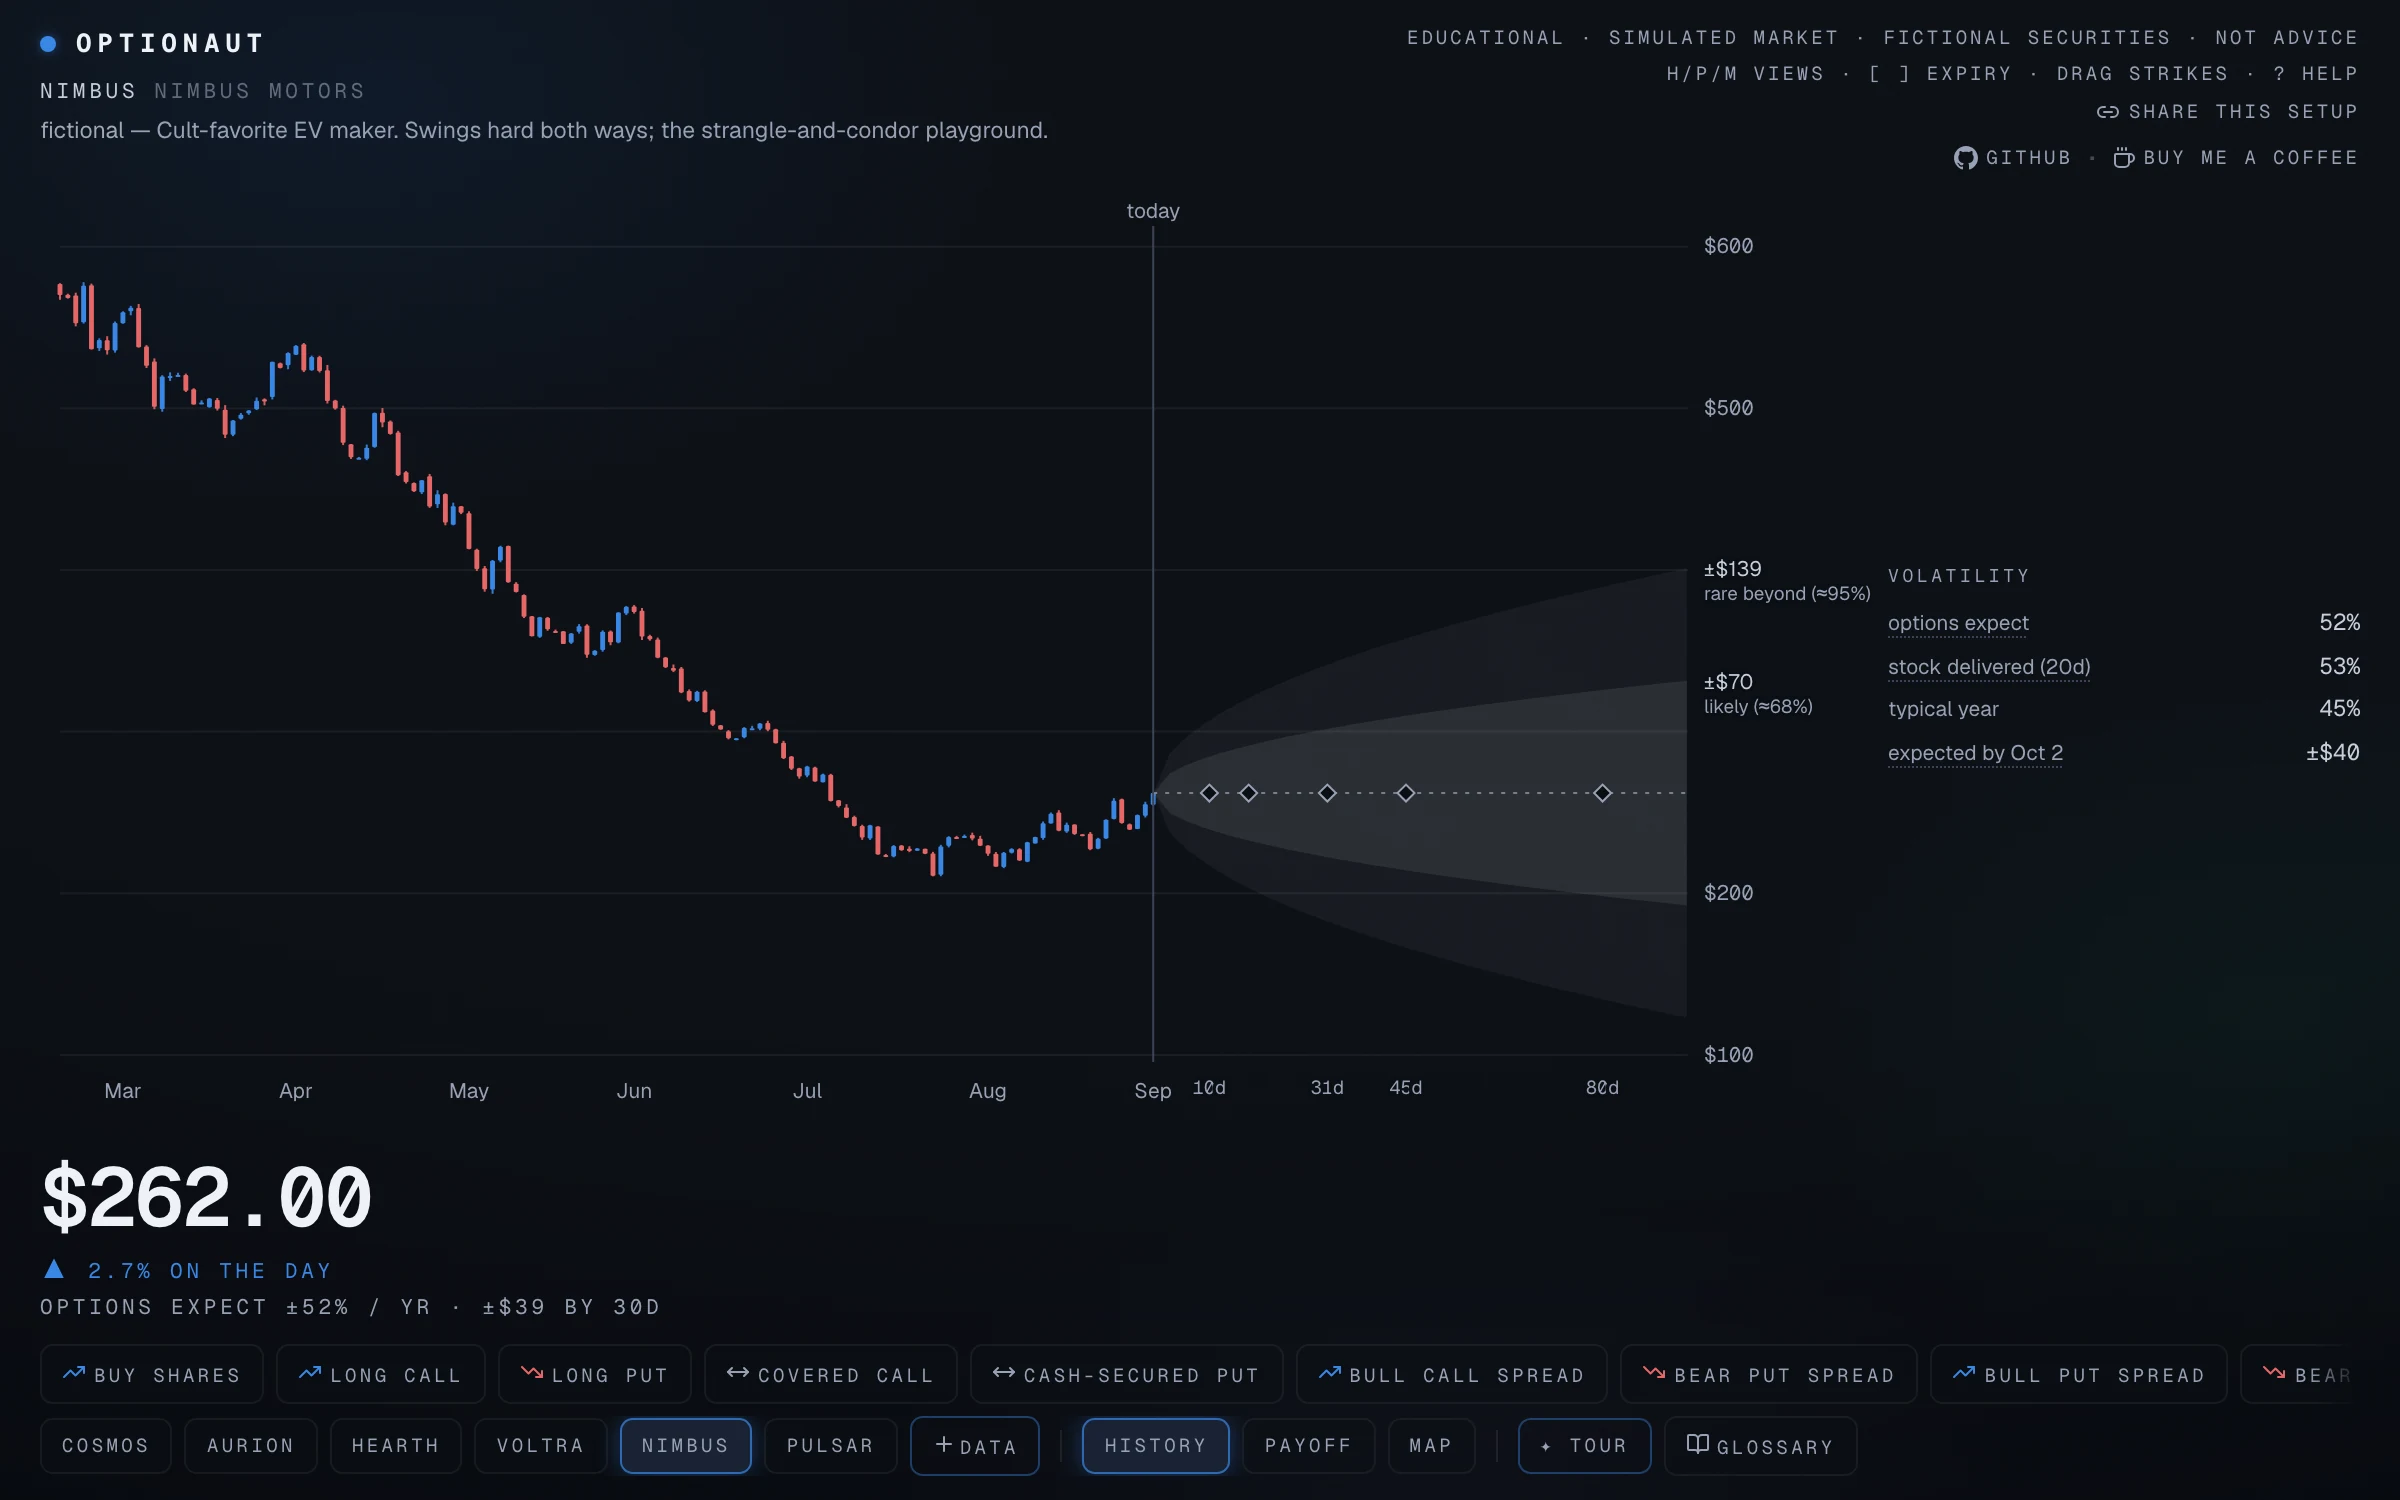
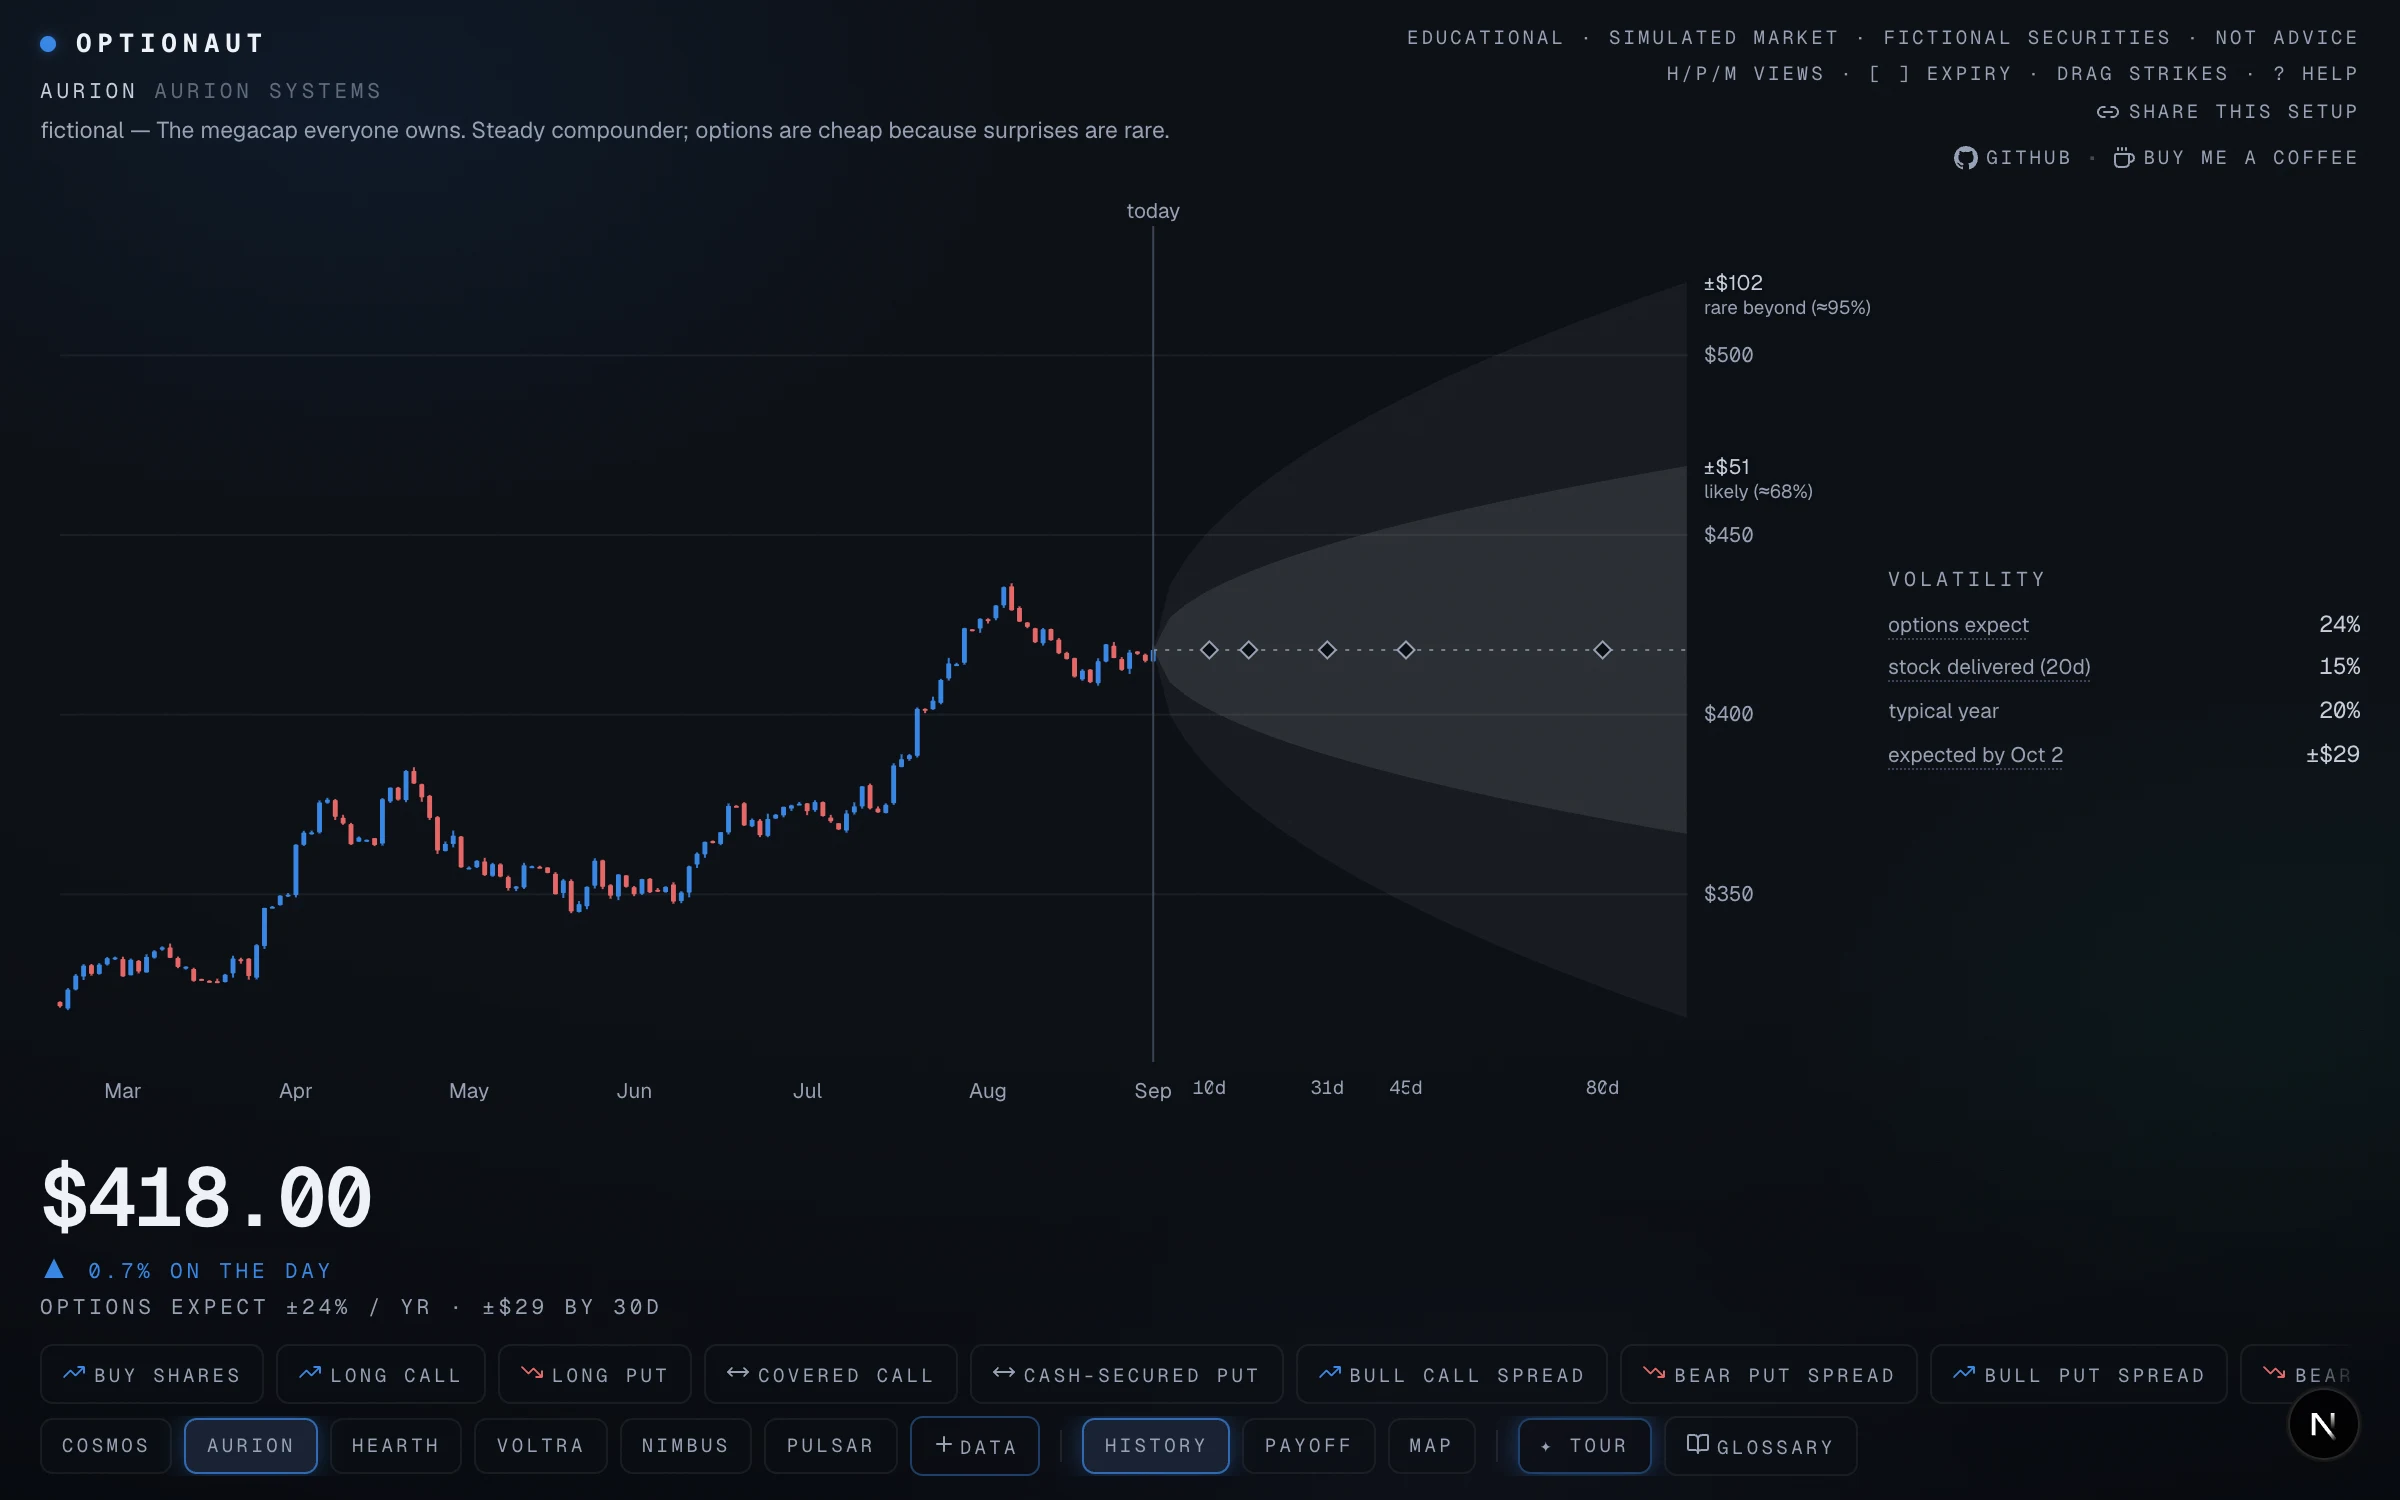
An eighth tour for the missing units, fresh README shots, and a tablet check
- "Building blocks" (tour 6 of 8, between the greeks and the seatbelt talk)
  covers PLAN §4.1 units 7–9: covered call as income, a debit vertical
  with a strike-drag gate and a width-versus-ticket reveal, the credit
  vertical as its mirror, a strangle with a breakeven reveal, the iron
  condor assembled from the strangle plus wings, and a time gate that shows
  the melt being collected. The greeks tour's condor step is now an honest
  preview of it. New glossary entry: strangle.
- scripts/shots.mjs replaces shot-tours.mjs and regenerates all three README
  screenshots from a headless Chrome (payoff, history, tours); the first-run
  flags are pre-set so the offer never photobombs. All three shots refreshed.
- README and CONTRIBUTING: eight tours, the shots script, ~25 minutes.
- Checked at iPad-landscape size (1024×768): no document scroll, the stage
  keeps ~380px with the lane in place; only the right panel scrolls.

diff --git a/src/components/cockpit/tour/tours.tsx b/src/components/cockpit/tour/tours.tsx
@@ -4,7 +4,7 @@ import { useCockpit } from "@/lib/cockpit/store";
 import type { Snapshot, Expiration } from "@/lib/data/types";
 import type { LabLeg } from "@/lib/options/strategies";
 import type { MarketCtx, OptionKind } from "@/lib/options/types";
-import { markToMarket, netEntryCost, payoffAtExpiry } from "@/lib/options/position";
+import { markToMarket, netEntryCost, payoffAtExpiry, breakevens } from "@/lib/options/position";
 import { fmtUsd, fmtSignedUsd, fmtSignedPctOf } from "@/lib/format";
 import type { Scene, TourTarget } from "./scene";
 
@@ -382,12 +382,146 @@ export const TOURS: Tour[] = [
         target: "greeks",
         caption: (
           <>
-            Graduation: an <Term id="iron-condor">iron condor</Term>{" "}— four{" "}
+            A preview of graduation: an <Term id="iron-condor">iron condor</Term>{" "}— four{" "}
             <Term id="leg">legs</Term>{" "}selling the middle, buying the <Term id="wing">wings</Term>.
             Look at the greeks: delta near zero (no direction), theta positive (time pays you),
-            vega negative (drama hurts). You can now read any strategy on the rail this way. Fly.
+            vega negative (drama hurts). You can now read any strategy on the rail this way; the
+            next tour assembles this one from pieces you already own.
           </>
         ),
+      },
+    ],
+  },
+  {
+    id: "building-blocks",
+    title: "Building blocks",
+    tagline: "Income, spreads, and the condor assembled from pieces.",
+    minutes: 3,
+    steps: [
+      {
+        scene: { strategy: "covered-call", view: "payoff" },
+        target: "readout",
+        caption: (
+          <>
+            Every strategy on the rail is assembled from pieces you already know. Start with
+            income: own 100 shares and sell a call against them — a{" "}
+            <Term id="covered">covered call</Term>. The premium is yours today (the readout
+            says you were paid); the price of that income is a ceiling on the upside, the flat
+            shelf on the right. Same downside as plain shares, plus a paid-for cap.
+          </>
+        ),
+      },
+      {
+        scene: { strategy: "bull-call-spread", view: "payoff" },
+        target: "strikes",
+        gate: {
+          check: (s) => Object.keys(s.overrides).length > 0,
+          hint: "drag the sold call's pill (−C) to the right",
+        },
+        caption: (
+          <>
+            Now a <Term id="spread">spread</Term>: buy one call and sell another at a higher
+            strike. The sold <Term id="leg">leg</Term>{" "}pays down the bought one, so the ticket
+            is cheaper — and in exchange the upside stops at the second strike. Capped both
+            ways. Drag the sold call&apos;s pill to the right and watch the cost and the cap grow
+            together.
+          </>
+        ),
+        reveal: (s, c) => {
+          const ks = c.legs.map((l) => l.strike).filter((k) => k > 0);
+          if (ks.length < 2) return null;
+          const width = (Math.max(...ks) - Math.min(...ks)) * 100;
+          const cost = netEntryCost(c.legs);
+          const most = width - cost;
+          return (
+            <>
+              Width {usd(width)}, ticket {usd(cost)}: the most you can make is {usd(most)}, about{" "}
+              {(Math.max(most, 0) / Math.max(cost, 1)).toFixed(1)}× what you risk.
+            </>
+          );
+        },
+      },
+      {
+        scene: { strategy: "bull-put-spread", view: "payoff" },
+        target: "readout",
+        caption: (
+          <>
+            Flip the spread: sell the higher put and buy a lower one as protection. Now you are{" "}
+            <em>paid</em>{" "}up front — a <Term id="credit-debit">credit</Term>{" "}— you keep it if
+            the stock stays above the sold strike, and the bought put caps what a crash can
+            take. The same shape as the last one, mirrored: pay now for a capped win, or get
+            paid now and post the width as collateral. Two currencies, one bet.
+          </>
+        ),
+      },
+      {
+        scene: { strategy: "long-strangle", view: "payoff" },
+        target: "price",
+        gate: {
+          check: (s, c) => Math.abs((s.whatIfPrice ?? c.spot) - c.spot) / c.spot >= 0.099,
+          hint: "drag the price dial at least 10% either way",
+        },
+        caption: (
+          <>
+            Now stop picking a direction. A <Term id="strangle">strangle</Term>{" "}buys a put
+            below the stock and a call above it: it pays if the stock moves far enough{" "}
+            <em>either</em>{" "}way. Drag the price dial hard in one direction and notice how far
+            it has to travel before the white line clears zero. Cheap tickets, wide breakevens.
+          </>
+        ),
+        reveal: (s, c) => {
+          const bes = breakevens(c.legs);
+          if (bes.length < 2) return null;
+          const lo = bes[0];
+          const hi = bes[bes.length - 1];
+          return (
+            <>
+              Breakevens at {usd(lo)} and {usd(hi)}: the stock has to move{" "}
+              {fmtSignedPctOf(lo, c.spot)} or {fmtSignedPctOf(hi, c.spot)} by expiry just to get
+              your premium back.
+            </>
+          );
+        },
+      },
+      {
+        scene: { strategy: "iron-condor", view: "payoff" },
+        target: "position",
+        caption: (
+          <>
+            Turn the strangle inside out and add seatbelts. <em>Sell</em>{" "}the strangle —
+            collect the drama premium — then buy a further-out put and call so a crash or a
+            squeeze can&apos;t run away from you. That is an{" "}
+            <Term id="iron-condor">iron condor</Term>: a bull put spread and a bear call spread
+            on the same stock, four <Term id="leg">legs</Term>. Read the position panel: max
+            profit is the credit, max loss is the width of a <Term id="wing">wing</Term>{" "}minus
+            that credit.
+          </>
+        ),
+      },
+      {
+        target: "time",
+        gate: {
+          check: (s, c) => s.elapsedDays >= Math.max(1, Math.round(c.dte * 0.3)),
+          hint: "push the time dial forward",
+        },
+        caption: (
+          <>
+            Push time forward and watch the readout climb: the condor is a machine for
+            collecting the melt from tour 3, at the price of a capped win and a loss that can
+            be several times the credit. Every spread on the rail is some mix of four moves —
+            buy, sell, higher, lower — and now you can read them all.
+          </>
+        ),
+        reveal: (s, c) => {
+          const pl = markToMarket(c.legs, c.spot, s.elapsedDays, c.market, s.ivScale);
+          const credit = -netEntryCost(c.legs);
+          return (
+            <>
+              {s.elapsedDays} days of nothing happening: {susd(pl)} of the {usd(credit)} credit,
+              already yours.
+            </>
+          );
+        },
       },
     ],
   },

diff --git a/src/lib/learn/glossary.ts b/src/lib/learn/glossary.ts
@@ -262,6 +262,12 @@ export const GLOSSARY: GlossaryEntry[] = [
     unit: 8,
   },
   {
+    id: "strangle",
+    term: "strangle",
+    short: "A cheaper straddle: buy a put below the stock and a call above it. It pays if the stock moves far enough in either direction — and needs a bigger move than the straddle to get there.",
+    unit: 9,
+  },
+  {
     id: "straddle",
     term: "straddle",
     short: "Buying a call and a put at the same strike and expiry. You are not picking a direction — you are betting the stock moves further than the two premiums combined, either way.",

diff --git a/README.md b/README.md
@@ -46,11 +46,12 @@ at the edges as a HUD, and three views morph in place (`H` / `P` / `M`):
 
 <p align="center">
   <img src="docs/shot-tours.webp" alt="Tour mode: seven guided flights that drive the real instrument" width="100%" />
-  <em>TOUR mode — seven guided flights that drive the real instrument from a caption lane
+  <em>TOUR mode — eight guided flights that drive the real instrument from a caption lane
   under the chart: the control each step talks about lights up, action gates hold "next"
   until you have dragged the dial yourself, and the answer to every prediction prompt
-  appears from the live numbers. Your place is saved. About twenty minutes from zero to
-  iron condor, then an earnings-night IV-crush replay flown from both sides.</em>
+  appears from the live numbers. Your place is saved. About twenty-five minutes from zero
+  to an iron condor built from pieces, then an earnings-night IV-crush replay flown from
+  both sides.</em>
 </p>
 
 Plus the **MAP** view (a clickable price×time P/L heatmap — click any cell to jump the
@@ -113,7 +114,7 @@ Optionaut is **v1, live, and actively developed** — every commit to `main` dep
 production.
 
 - [x] The Cockpit — full-screen instrument, three morphing views, HUD, keyboard map
-- [x] TOUR mode — seven guided flights with action gates
+- [x] TOUR mode — eight guided flights with action gates, spotlights, and reveals
 - [x] Hand-written, test-anchored options-math engine
 - [x] Simulated market — six fictional archetype securities, generated and deterministic
 - [x] Bring your own security — quick-build from your numbers, or upload Cboe's CSV

diff --git a/CONTRIBUTING.md b/CONTRIBUTING.md
@@ -27,6 +27,8 @@ src/lib/data/             # snapshot loading, custom (user-added) markets, Cboe 
 src/lib/cockpit/store.ts  # the one Zustand store driving everything
 src/lib/learn/            # glossary + per-strategy guides (the teaching copy)
 scripts/generate-market.mjs   # regenerates the bundled simulated market
+scripts/record-demo.mjs       # README media: the demo GIF …
+scripts/shots.mjs             # … and the three screenshots, from a headless Chrome
 public/snapshots/         # the generated fixtures (the app's bundled data)
 ```
 
@@ -73,6 +75,8 @@ small and worth knowing before you add a step.
   some caption text, so `<em>sold</em>{" "}put` is the house form. Every term of
   jargon is a `<Term>` (ground rule 3); `npm run dev` warns in the console for an
   unknown id.
+- **The README shot of tour mode** is `docs/shot-tours.webp`; after a visible change, run
+  `node scripts/shots.mjs tours` against a running server and commit the new file.
 - **Progress is the learner's.** Steps and completion persist per browser in
   `localStorage` (`src/lib/cockpit/tourProgress.ts`); reaching a tour's last caption
   counts as done. Keep step ids stable — a saved place is an index into `steps`.
